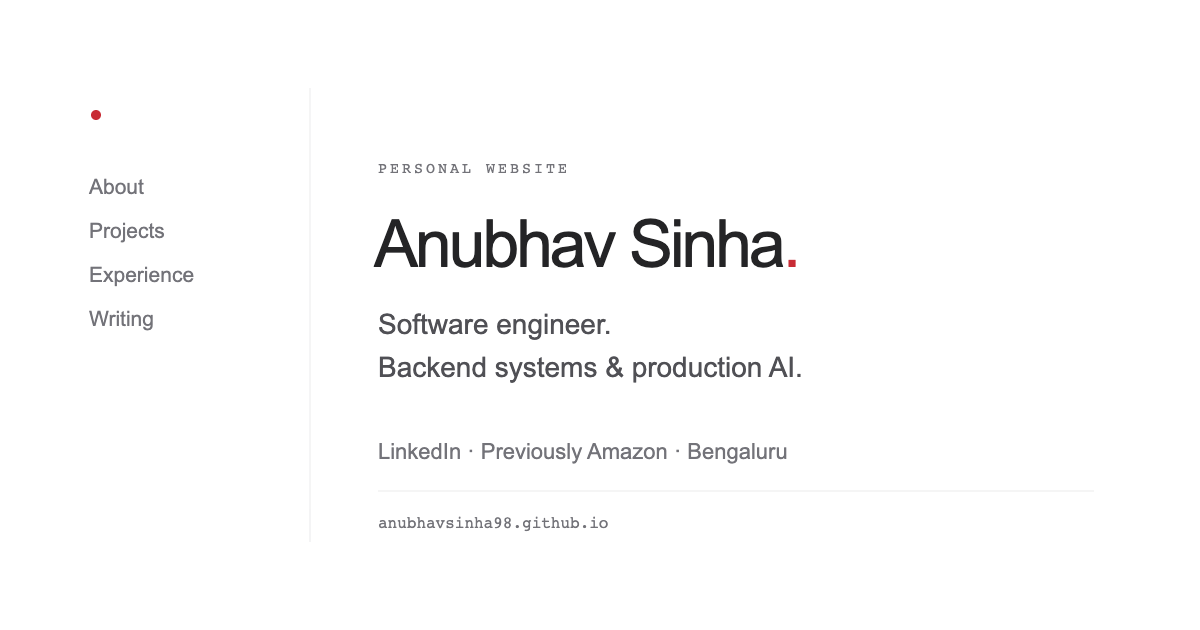
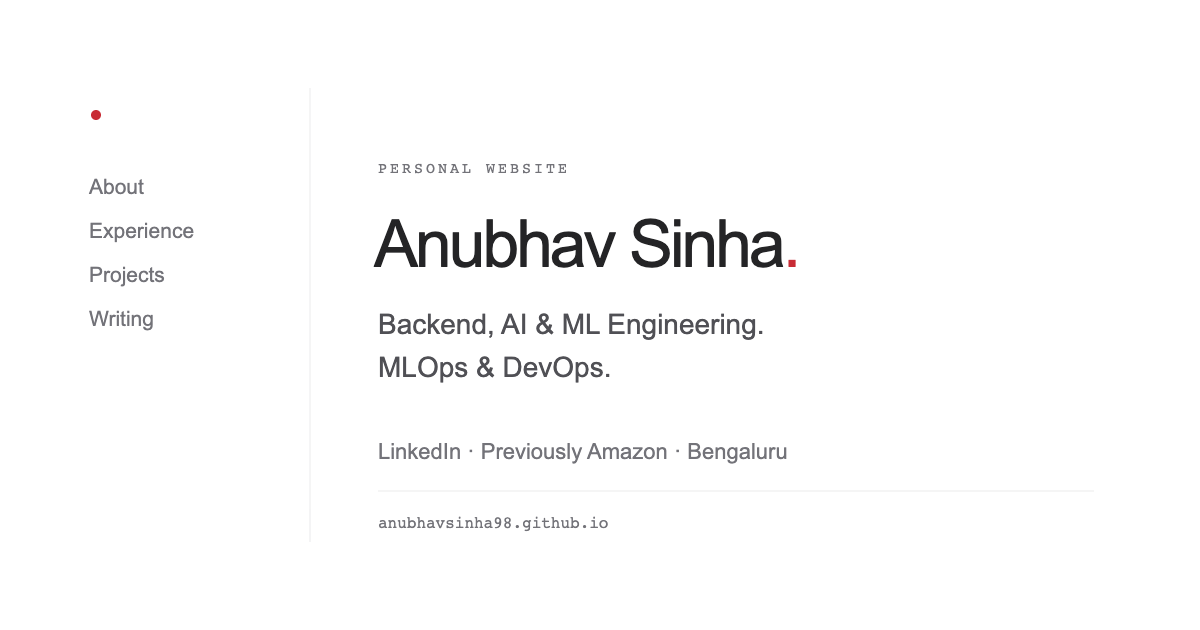
Highlight backend, AI, ML, MLOps and DevOps experience

Changed region(s): [[0.3083, 0.4825, 0.6783, 0.6032], [0.0617, 0.4222, 0.185, 0.4524], [0.0617, 0.3619, 0.1542, 0.3921]]

diff --git a/index.html b/index.html
@@ -4,14 +4,14 @@
   <meta charset="utf-8">
   <meta name="viewport" content="width=device-width, initial-scale=1">
   <meta name="theme-color" content="#ffffff">
-  <title>Anubhav Sinha — Software engineer</title>
-  <meta name="description" content="The personal website of Anubhav Sinha. Senior Software Engineer at LinkedIn, previously Amazon. Projects, experience, and writing on backend systems and production AI.">
+  <title>Anubhav Sinha — Backend, AI &amp; ML Engineering</title>
+  <meta name="description" content="Anubhav Sinha: backend engineering, AI engineering, ML engineering, MLOps, and DevOps. Senior Software Engineer at LinkedIn, previously Amazon.">
   <link rel="canonical" href="https://anubhavsinha98.github.io/">
   <meta property="og:type" content="website">
-  <meta property="og:title" content="Anubhav Sinha — Software engineer">
-  <meta property="og:description" content="A little about me, the things I build, and the work along the way. Currently LinkedIn, previously Amazon.">
+  <meta property="og:title" content="Anubhav Sinha — Backend, AI &amp; ML Engineering">
+  <meta property="og:description" content="Backend engineering, AI engineering, ML engineering, MLOps, and DevOps — through enterprise APIs, AI integrations, production model serving, and cloud infrastructure. Currently LinkedIn, previously Amazon.">
   <meta property="og:url" content="https://anubhavsinha98.github.io/">
-  <meta property="og:image" content="https://anubhavsinha98.github.io/assets/social-preview.png?v=20261114c">
+  <meta property="og:image" content="https://anubhavsinha98.github.io/assets/social-preview.png?v=20261116-engineering">
   <meta name="twitter:card" content="summary_large_image">
   <link rel="icon" href="assets/favicon.svg" type="image/svg+xml">
   <link rel="stylesheet" href="styles/style.css?v=20261116-email">
@@ -46,22 +46,22 @@
       <section class="intro" id="about" aria-labelledby="intro-title">
         <p class="section-label">A LITTLE ABOUT ME</p>
         <h1 id="intro-title">Hello, I’m Anubhav<span class="name-dot">.</span></h1>
-        <p class="intro-lead">I’m a software engineer working on backend systems and production AI.</p>
+        <p class="intro-lead">My work spans backend engineering, AI engineering, ML engineering, MLOps, and DevOps.</p>
         <div class="prose">
-          <p>Currently a Senior Software Engineer at <a href="https://www.linkedin.com/in/anubhavsinha98/" target="_blank" rel="noopener noreferrer">LinkedIn</a>, where I work on enterprise integrations, entity resolution, and MCP APIs for Sales Solutions.</p>
-          <p>Before that, I spent four years at <a href="#amazon">Amazon</a> building inference services for Search Science &amp; AI, including systems behind Rufus, Amazon’s AI shopping assistant.</p>
+          <p>Currently a Senior Software Engineer at <a href="https://www.linkedin.com/in/anubhavsinha98/" target="_blank" rel="noopener noreferrer">LinkedIn</a>, where I work on backend APIs, enterprise integrations, entity resolution, and AI engineering through MCP APIs and internal AI tooling.</p>
+          <p>Before that, I spent four years at <a href="#amazon">Amazon</a> in Search Science &amp; AI, bringing deep-learning models into production: model onboarding, inference services, evaluation, quantization, and deployment automation. That included services behind Rufus, Amazon’s AI shopping assistant.</p>
           <p>My personal projects include <a href="#localjot">LocalJot</a> and <a href="#go-careers">Go Careers</a>. I also contributed to <a href="#oppia">Oppia</a> through Google Summer of Code.</p>
         </div>
       </section>
 
       <section class="content-section" id="experience" aria-labelledby="experience-title">
-        <div class="section-heading"><h2 id="experience-title">Along the way</h2><span class="section-aside">Experience</span></div>
+        <div class="section-heading"><h2 id="experience-title">Engineering experience</h2><span class="section-aside">Experience</span></div>
         <div class="career-list">
           <article class="career-entry">
             <div class="timeline"><span class="timeline-dot current" aria-hidden="true"></span><p><time datetime="2025-12">Dec 2025</time><span>— Present</span></p></div>
             <div class="entry-body">
               <div class="entry-heading"><h3><img class="company-logo" src="assets/logos/linkedin.png" width="24" height="24" alt="" aria-hidden="true">LinkedIn</h3><span class="current-note">Now</span></div>
-              <p class="role">Senior Software Engineer</p>
+              <p class="role">Senior Software Engineer · Backend &amp; AI Engineering</p>
               <p>Led the Gong and Outreach sales-engagement integration across five services. Built APIs for the Sales Solutions MCP server and owned entity-resolution evaluation and match quality.</p>
               <details class="work-details">
                 <summary>A few more details <span aria-hidden="true">+</span></summary>
@@ -75,7 +75,8 @@
             <div class="entry-body">
               <div class="entry-heading"><h3><img class="company-logo" src="assets/logos/amazon.png" width="24" height="24" alt="" aria-hidden="true">Amazon</h3></div>
               <p class="role">Software Development Engineer II · Search Science &amp; AI</p>
-              <p>Built backend inference services for query understanding and Rufus. Worked on model onboarding, evaluation, quantization, and the path from a trained model to a production service.</p>
+              <p>ML engineering across production inference services for query understanding and Rufus: model onboarding, evaluation, quantization, and performance optimization.</p>
+              <p>My MLOps and DevOps work included AWS/CDK infrastructure and CI/CD pipelines with automated model evaluation, integration tests, and load and stress testing.</p>
               <details class="work-details">
                 <summary>A few more details <span aria-hidden="true">+</span></summary>
                 <div class="details-content"><ul><li>Onboarded six deep-learning models, reaching 95% query coverage.</li><li>Reduced inference latency and infrastructure costs by 50% through quantization.</li><li>Added precision and recall evaluation, integration tests, and load and stress tests to deployment pipelines.</li><li>Mentored two interns who went on to full-time roles.</li></ul></div>

diff --git a/README.md b/README.md
@@ -2,7 +2,7 @@
 
 Live at [anubhavsinha98.github.io](https://anubhavsinha98.github.io/).
 
-A personal, text-first portfolio covering backend engineering, production ML inference, independent projects, and open-source work. Experience and project details are grounded in the 2026 résumé supplied by Anubhav.
+A personal, text-first portfolio covering backend engineering, AI engineering, ML engineering, MLOps, and DevOps, alongside independent projects and open-source work. The introduction, work descriptions, and search/social metadata reflect these areas. Experience and project details are grounded in the 2026 résumé supplied by Anubhav.
 
 ## Run locally
 
